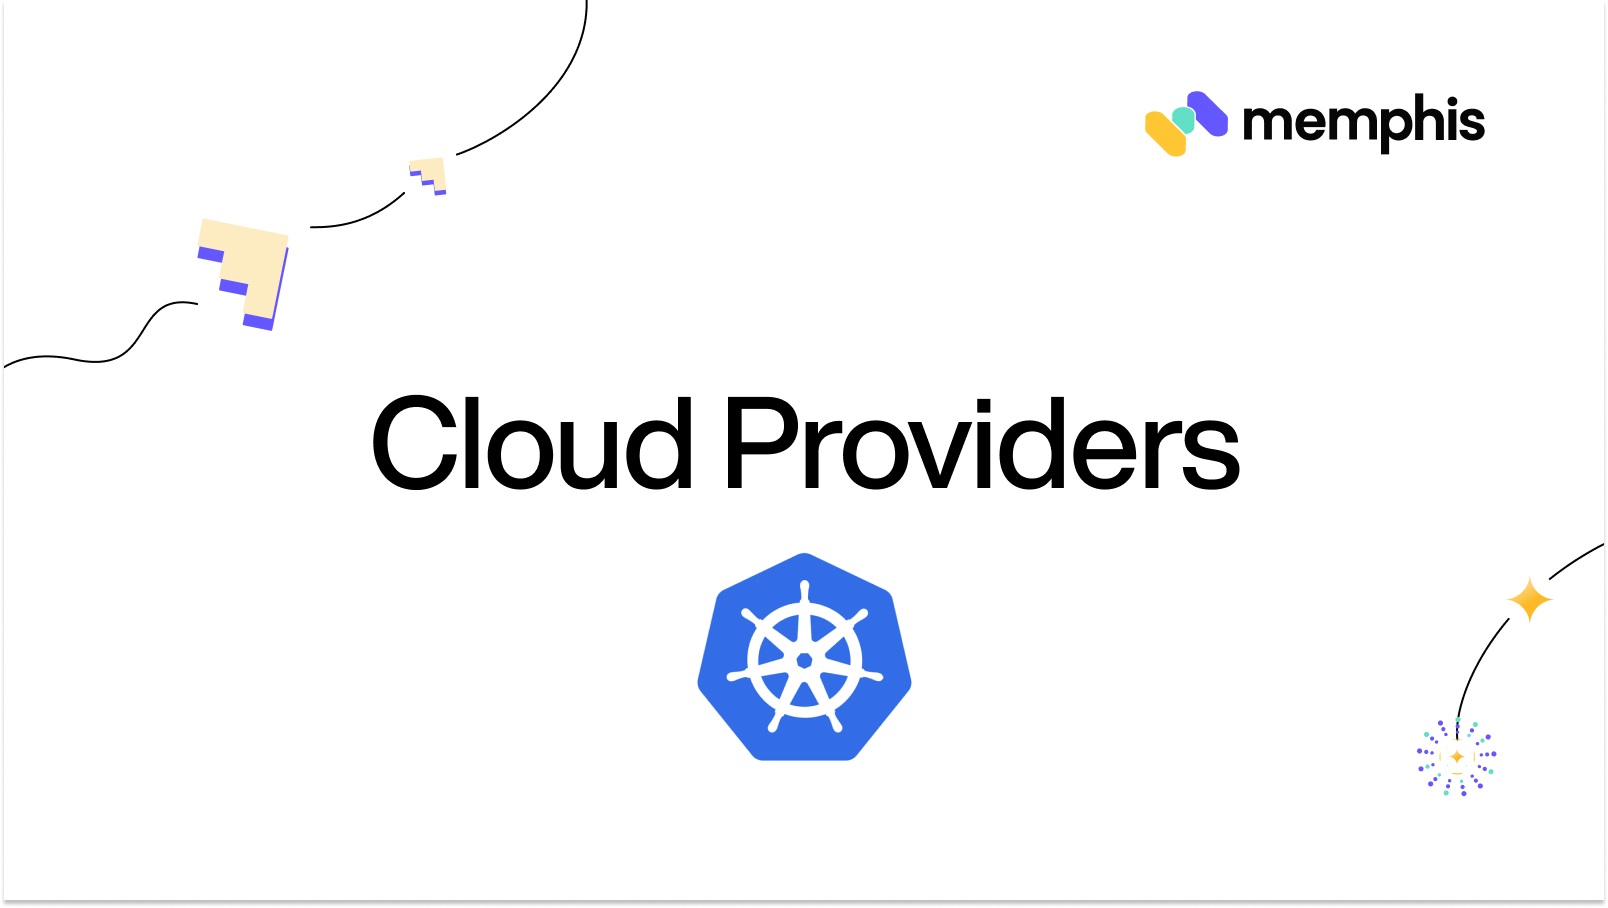
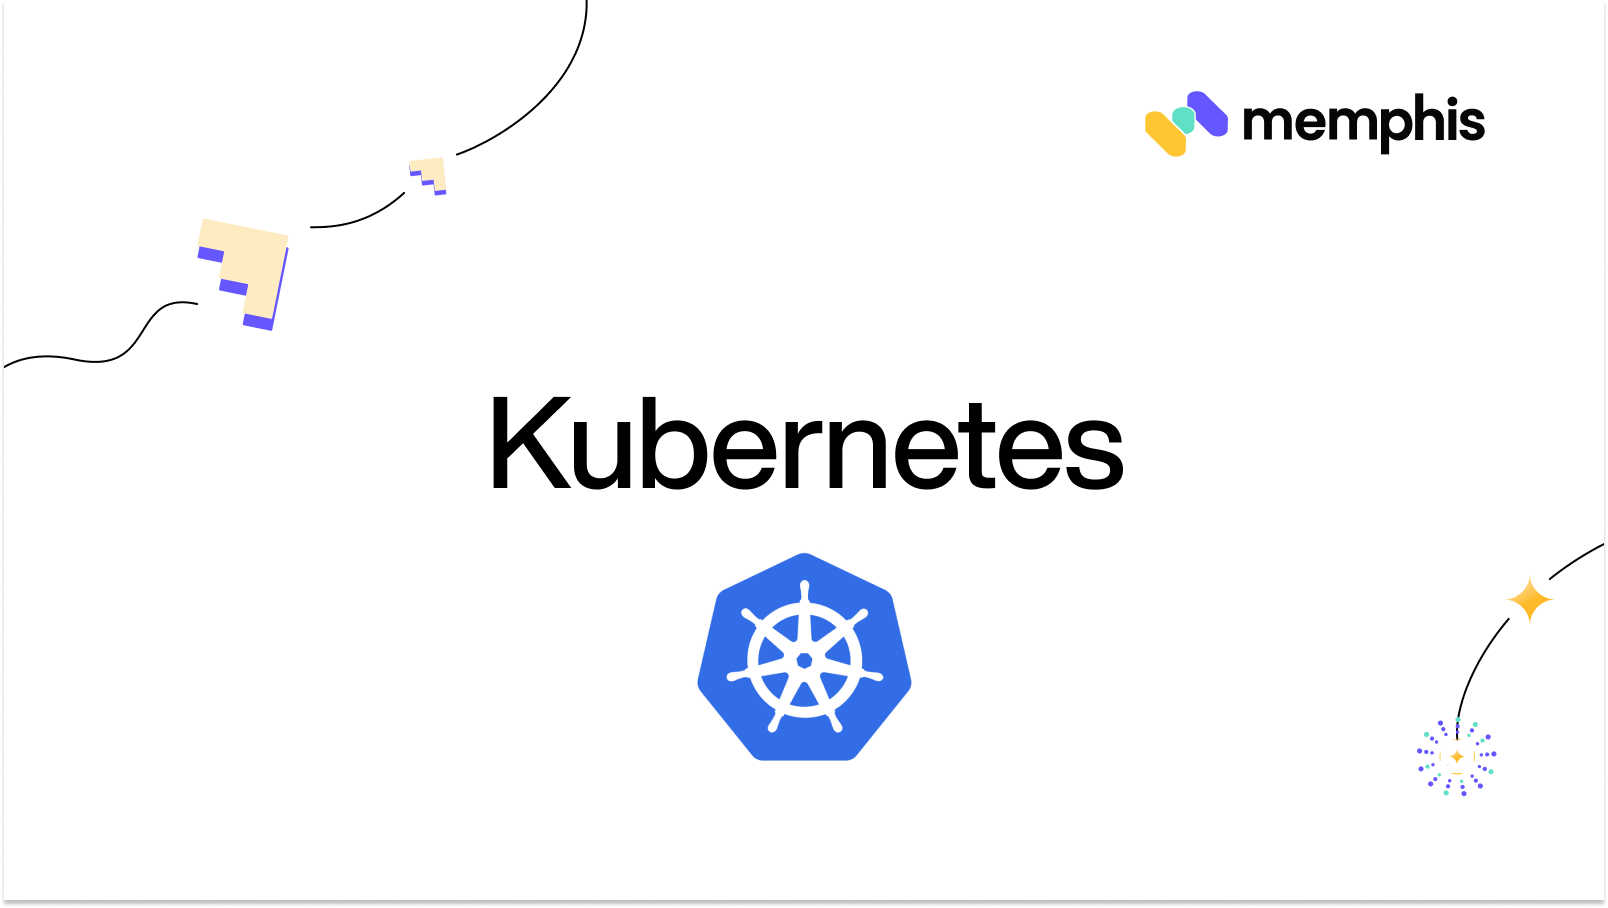
GitBook: [#489] No subject

Changed region(s): [[0.2177, 0.4317, 0.7774, 0.5551]]

diff --git a/README.md b/README.md
@@ -20,13 +20,13 @@ Memphis{dev} enables building next-generation applications that require large vo
 
 ### 👉 **Start here: Choose your preferred environment -**&#x20;
 
-
-
-
-
 * ****[Kubernetes (Production)](deployment/kubernetes.md)
 * [Cloud providers (Production)](deployment/cloud-deployment/)
 * [Docker (Dev)](deployment/docker-compose.md#step-1-download-compose.yaml-file)
 
-<table data-view="cards"><thead><tr><th></th><th data-hidden></th><th data-hidden></th><th data-hidden data-type="files"></th><th data-hidden data-card-cover data-type="files"></th></tr></thead><tbody><tr><td>Kubernetes (Production)</td><td>Kubernetes (Production)</td><td></td><td><a href=".gitbook/assets/kubernetes banner.jpeg">kubernetes banner.jpeg</a></td><td><a href=".gitbook/assets/kubernetes banner (1).jpeg">kubernetes banner (1).jpeg</a></td></tr><tr><td>Cloud Providers (Prod)</td><td></td><td></td><td></td><td><a href=".gitbook/assets/cloud providors banner.jpeg">cloud providors banner.jpeg</a></td></tr><tr><td>Docker (Dev)</td><td></td><td></td><td></td><td><a href=".gitbook/assets/Docker banner.jpeg">Docker banner.jpeg</a></td></tr></tbody></table>
+<table data-view="cards"><thead><tr><th></th><th data-hidden></th><th data-hidden></th><th data-hidden data-type="files"></th><th data-hidden data-card-cover data-type="files"></th></tr></thead><tbody><tr><td>Kubernetes (Production)</td><td>Kubernetes (Production)</td><td></td><td><a href=".gitbook/assets/kubernetes banner (1).jpeg">kubernetes banner (1).jpeg</a></td><td><a href=".gitbook/assets/kubernetes banner (2).jpeg">kubernetes banner (2).jpeg</a></td></tr><tr><td>Cloud Providers (Prod)</td><td></td><td></td><td></td><td><a href=".gitbook/assets/cloud providors banner (1).jpeg">cloud providors banner (1).jpeg</a></td></tr><tr><td>Docker (Dev)</td><td></td><td></td><td></td><td><a href=".gitbook/assets/Docker banner.jpeg">Docker banner.jpeg</a></td></tr></tbody></table>
+
+### Kubernetes (Production)
+
+test
 
